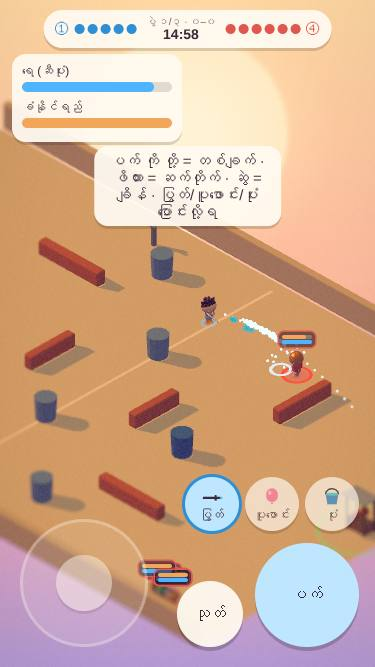
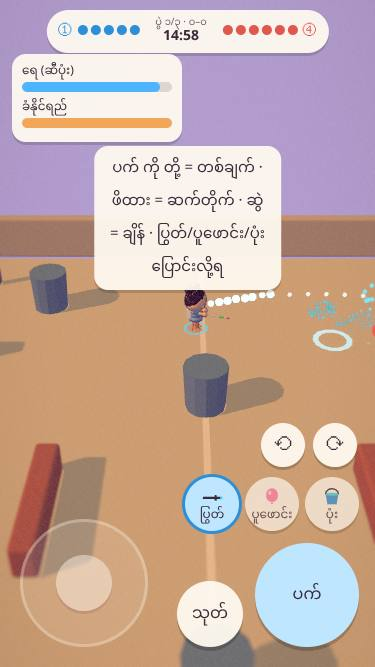
T3 on T2: the water fight on the orbit camera — war context, camera-relative drag aim, orbit.shake, turn pads, palette.js
Claude-Session: https://claude.ai/code/session_017xuZq8H4cNKSMdBo5y4KvM

diff --git a/yangon/war.js b/yangon/war.js
@@ -7,14 +7,15 @@
 // away side comes with an extra kid, one slow drum, and has to push in (and may use the home side's taps). One kid per tap.
 import { createWorld } from '../world.js?v=14';
 import { createSound } from '../sound.js?v=3';
-import { createFx } from '../fx.js?v=1';
+import { createFx } from '../fx.js?v=2';
 import { createRules, RULE_TEXT } from '../rules.js?v=1';
 import { createAI } from './ai.js?v=1';
 
 const P = new URLSearchParams(location.search);
 const MODE = P.get('mode'), AUTO = P.has('auto'), ALLEY = P.get('map') === 'alley'; // the open lot by default; the alleys if asked
 const B = ALLEY ? { x0: -18, x1: 18, z0: -12, z1: 12 } : { x0: -14, x1: 14, z0: -9, z1: 9 };
-const W = createWorld({ bounds: B, ground: () => .01, camBounds: ALLEY ? { x0: -16.5, x1: 16.5, z0: -10.5, z1: 10.5 } : { x0: -8, x1: 8, z0: -4.5, z1: 4.5 }, view: ALLEY ? 15 : innerWidth < innerHeight ? 11.5 : 15 }); // the lot is small: a phone held upright gets closer in
+const W = createWorld({ bounds: B, ground: () => .01, camBounds: ALLEY ? { x0: -16.5, x1: 16.5, z0: -10.5, z1: 10.5 } : { x0: -8, x1: 8, z0: -4.5, z1: 4.5 }, view: ALLEY ? 15 : innerWidth < innerHeight ? 11.5 : 15, camera: 'orbit' }); // T2's orbit camera (turn 45°: Z / C, the ⟲⟳ pads, a sideways drag)
+W.orbit?.context('war', true); // CAMERA.md: a fight pulls the view out a little
 const { THREE, scene, box, mesh, rnd, pick } = W;
 const sound = createSound(W);
 const $ = id => document.getElementById(id);
@@ -264,7 +265,7 @@ function pop(k, text, color = '#fff') { // a word that jumps off the kid you got
 }
 let drown = 0; // that water-up-your-nose feeling, for you
 let shakeT = 0, shakeA = 0, buzzT = 0;
-const kick = (a, t = TUNE.shakeT) => { if (a >= shakeA * Math.max(0, shakeT) / TUNE.shakeT) { shakeA = a; shakeT = t; } }; // the screen jolts for .15 s
+const kick = (a, t = TUNE.shakeT) => { if (a < shakeA * Math.max(0, shakeT) / TUNE.shakeT) return; shakeA = a; shakeT = t; W.orbit?.shake(a * .015 * TUNE.shake / 6, t); }; // the view jolts for .15 s (orbit: the camera itself)
 const buzz = () => { if (W.time() > buzzT) { buzzT = W.time() + .25; try { navigator.vibrate?.(TUNE.vibrate); } catch {} } }; // Android: a 30 ms buzz
 // one hit, whatever it came from: grit off, a squash, the drop emote, the burst, the sound, the beat of stillness
 function soak(k, o) {
@@ -400,7 +401,7 @@ const ai = createAI({ kids, me, auto: AUTO, B, alley: ALLEY, homeTeam: HOME, CAN
 // A red ring marks who it'll hit. PC: the mouse aims, Space / J = the pad, R = switch, 1 2 3 = pick.
 let charge = 0, holding = false, sting = 0, aimDir = null, dragFrom = null, mouseAim = null;
 const ringEl = $('ring');
-const RIGHT = new THREE.Vector3(1, 0, -1).normalize(), UP = new THREE.Vector3(-1, 0, -1).normalize(); // the screen's right and up, on the ground (the world's iso camera)
+const RIGHT = new THREE.Vector3(), UP = new THREE.Vector3(); // the screen's right and up, on the ground — from the camera's angle right now (it turns)
 function visibleFoes() { const p = pos(me), lob = me.weapon === 'balloon'; return enemies(me).filter(o => pos(o).distanceTo(p) < (lob ? WEAPONS.balloon.range : 10) && (lob || clear(p, pos(o)))); }
 function autoTarget() { let best = null, bd = 1e9; for (const o of visibleFoes()) { const d = pos(o).distanceTo(pos(me)); if (d < bd) { bd = d; best = o; } } return best; }
 function rayTarget(dir) { // the kid nearest the line you're aiming along (never one who's OUT)
@@ -436,6 +437,7 @@ setWeapon('pump');
 const wipe = () => { if (!playing || me.out || me.state === 'wipe') return; drown = 0; me.state = 'wipe'; me.wipeT = 1.2; holding = false; charge = 0; W.frozen = true; $('wipe').classList.add('on'); };
 $('fire').addEventListener('pointerdown', e => { e.preventDefault(); e.stopPropagation(); dragFrom = [e.clientX, e.clientY, e.pointerId]; aimDir = null; try { $('fire').setPointerCapture(e.pointerId); } catch {} press(true); });
 $('fire').addEventListener('pointermove', e => { if (!dragFrom || e.pointerId !== dragFrom[2]) return; const dx = e.clientX - dragFrom[0], dy = dragFrom[1] - e.clientY;
+  if (W.orbit) { W.orbit.right(RIGHT); W.orbit.forward(UP); } else { RIGHT.set(1, 0, -1).normalize(); UP.set(-1, 0, -1).normalize(); }
   aimDir = Math.hypot(dx, dy) > 16 ? new THREE.Vector3().addScaledVector(RIGHT, dx).addScaledVector(UP, dy) : null; });
 $('fire').addEventListener('pointerup', e => { e.stopPropagation(); press(false); });
 $('fire').addEventListener('pointercancel', () => press(false));
@@ -592,7 +594,7 @@ W.tick(dt => {
   }
   stepDrops(dt); stepBalloons(dt); showAim(); tags(); feel(dt); fx.update(dt);
   REST.A.ring.material.opacity = me.out ? .55 + Math.sin(W.time() * 6) * .35 : .45;
-  const shake = shakeT > 0 ? shakeA * shakeT / TUNE.shakeT * TUNE.shake / 6 : 0; shakeT -= dt; drown = Math.max(0, drown - dt * .3);
+  const shake = !W.orbit && shakeT > 0 ? shakeA * shakeT / TUNE.shakeT * TUNE.shake / 6 : 0; shakeT -= dt; // iso: shake the canvas; orbit shakes the camera (kick) drown = Math.max(0, drown - dt * .3);
   const sw = drown > .05 ? ` scale(${(1 + drown * .025 * (1 + Math.sin(W.time() * 4.5))).toFixed(4)})` : '';
   W.renderer.domElement.style.transform = (shake > .2 ? `translate(${((rnd() - .5) * shake).toFixed(1)}px,${((rnd() - .5) * shake).toFixed(1)}px)` : '') + sw;
   if (stop > 0) { const s = stop; stop = 0; W.paused = true; setTimeout(() => { W.paused = false; }, s * 1000); } // a beat of stillness when a shot really lands

diff --git a/war.html b/war.html
@@ -37,6 +37,8 @@
   #weps button.on{opacity:1;background:#bfe6ff;box-shadow:0 0 0 3px #2f8fd6,0 3px 0 rgba(0,0,0,.2)}
   #weps svg{display:block;width:22px;height:22px;margin:0 auto 1px}
   #water.low>b{background:#e04a3a;animation:blink .8s steps(2) infinite}
+  #turn{position:fixed;z-index:3;right:calc(18px + env(safe-area-inset-right,0px));bottom:calc(200px + env(safe-area-inset-bottom,0px));display:flex;gap:8px}
+  #turn button{width:44px;height:44px;border-radius:50%;border:0;background:var(--paper);color:var(--ink);font:inherit;font-size:22px;line-height:1;box-shadow:0 3px 0 rgba(0,0,0,.2);touch-action:manipulation}
   #rule{position:fixed;z-index:3;left:50%;bottom:calc(200px + env(safe-area-inset-bottom,0px));transform:translateX(-50%);max-width:86vw;padding:5px 12px;border-radius:12px;background:#fff1e6;color:#a3321f;font-size:14px;box-shadow:0 3px 0 rgba(0,0,0,.15);white-space:nowrap}
   .kb{display:block;font-size:10px;opacity:.55} @media (pointer:coarse){.kb{display:none}}
   .card{position:fixed;z-index:5;inset:0;display:flex;align-items:center;justify-content:center;background:rgba(40,30,50,.55);padding:16px}
@@ -81,6 +83,7 @@
 <div id="sting"></div>
 <div id="big" hidden></div>
 <div id="rule" hidden></div>
+<div id="turn"><button id="rotl" type="button" aria-label="ဘယ်ဘက် လှည့်" hidden>⟲</button><button id="rotr" type="button" aria-label="ညာဘက် လှည့်" hidden>⟳</button></div>
 <div id="weps">
   <button type="button" data-w="pump"><svg viewBox="0 0 24 24"><path d="M3 13h13M16 11v4M18 13h3" stroke="#3b2a3a" stroke-width="2.4" stroke-linecap="round" fill="none"/><circle cx="22" cy="13" r="1.4" fill="#3fd3e0"/></svg>ပြွတ်<span class="kb">1</span></button>
   <button type="button" data-w="balloon"><svg viewBox="0 0 24 24"><ellipse cx="12" cy="10" rx="6.5" ry="7.5" fill="#ff7aa8"/><path d="M12 17.5l-1.5 2h3z" fill="#ff7aa8"/><ellipse cx="9.5" cy="7.5" rx="1.6" ry="2.2" fill="#fff" opacity=".6"/></svg>ပူဖောင်း<span class="kb">2</span></button>
@@ -111,6 +114,6 @@
 <script type="importmap">{"imports":{"three":"https://cdn.jsdelivr.net/npm/three@0.170.0/build/three.module.js","three/addons/":"https://cdn.jsdelivr.net/npm/three@0.170.0/examples/jsm/",
   "three.quarks":"https://cdn.jsdelivr.net/npm/three.quarks@0.16.0/dist/three.quarks.esm.js","quarks.core":"https://cdn.jsdelivr.net/npm/quarks.core@0.16.0/dist/quarks.core.esm.js",
   "yuka":"https://cdn.jsdelivr.net/npm/yuka@0.7.8/build/yuka.module.js"}}</script>
-<script type="module" src="./yangon/war.js?v=7"></script>
+<script type="module" src="./yangon/war.js?v=8"></script>
 </body>
 </html>

diff --git a/fx.js b/fx.js
@@ -8,7 +8,7 @@ import * as THREE from 'three';
 import { BatchedRenderer, ParticleSystem, RenderMode, QuarksLoader, QuarksUtil } from 'three.quarks';
 import { ConstantValue, IntervalValue, ConstantColor, Vector4, SphereEmitter, ConeEmitter, ApplyForce, SizeOverLife, ColorOverLife, Gradient, PiecewiseBezier, Bezier, Vector3 as QV3 } from 'quarks.core';
 import { DecalGeometry } from 'three/addons/geometries/DecalGeometry.js';
-const PAL = { water: '#3fd3e0', wet: '#2aa7b8', splash: '#cff6fa' }; // docs/PALETTE.md — import from palette.js once T2 (#30) is on main
+import { PAL } from './palette.js'; // docs/PALETTE.md: water / wet / splash
 
 export const BUDGET = { stream: 400, burst: 30, sheet: 120, drip: 20, total: 2000 };
 const POOL = { stream: 6, burst: 10, sheet: 3, drip: 4 }; // instances per effect (several can play at once in different places)

diff --git a/docs/plans/T3.md b/docs/plans/T3.md
@@ -98,3 +98,9 @@
 3. **5v5** — war.js is 5 v 6 by design (the visitors bring one more). The check runs that; say if T3 should be 5v5
 4. **Library weight** — three.quarks 0.16 needs `quarks.core` 0.16 as well: ~20 + ~31 + yuka ~85 = **~136 KB gzip** (plan said ~105)
 5. **After T2 merges** — `war.html` → `camera:'orbit'` + `orbit.shake()`, `fx.js` → `palette.js`, `world.js?v=13`; I'll merge main into `claude/water` then
+
+## After T2 merged (main → `claude/water`)
+
+- `war.html` → `camera: 'orbit'` + `context('war')` · ⟲⟳ pads (also Z / C, sideways drag) · the drag-aim is camera-relative (`orbit.right()` / `forward()` at the moment you drag) · `kick()` → `orbit.shake()` (the CSS canvas shake stays for iso only) · `fx.js` takes `PAL` from `palette.js` · `world.js?v=14`
+- re-checked on orbit: pump / balloon / bucket / refill numbers unchanged, console 0 · screenshots in `docs/water/` re-shot on orbit
+- the lot has no `surround` (it isn't on the island): past the compound walls is the sky dome — fine for a fight; say if it should get a town ring
